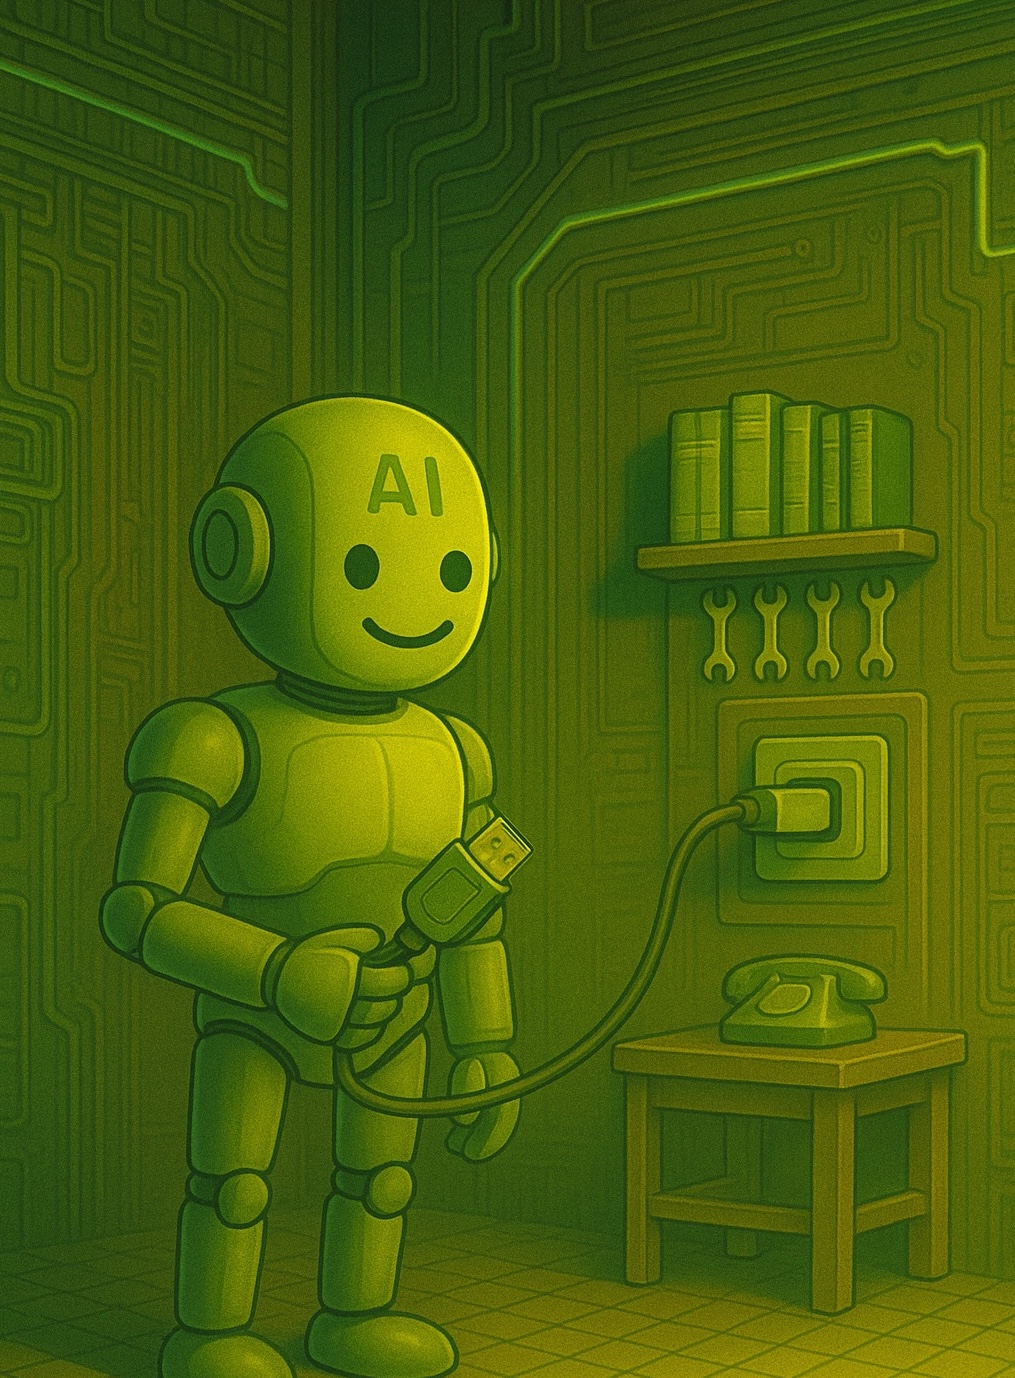
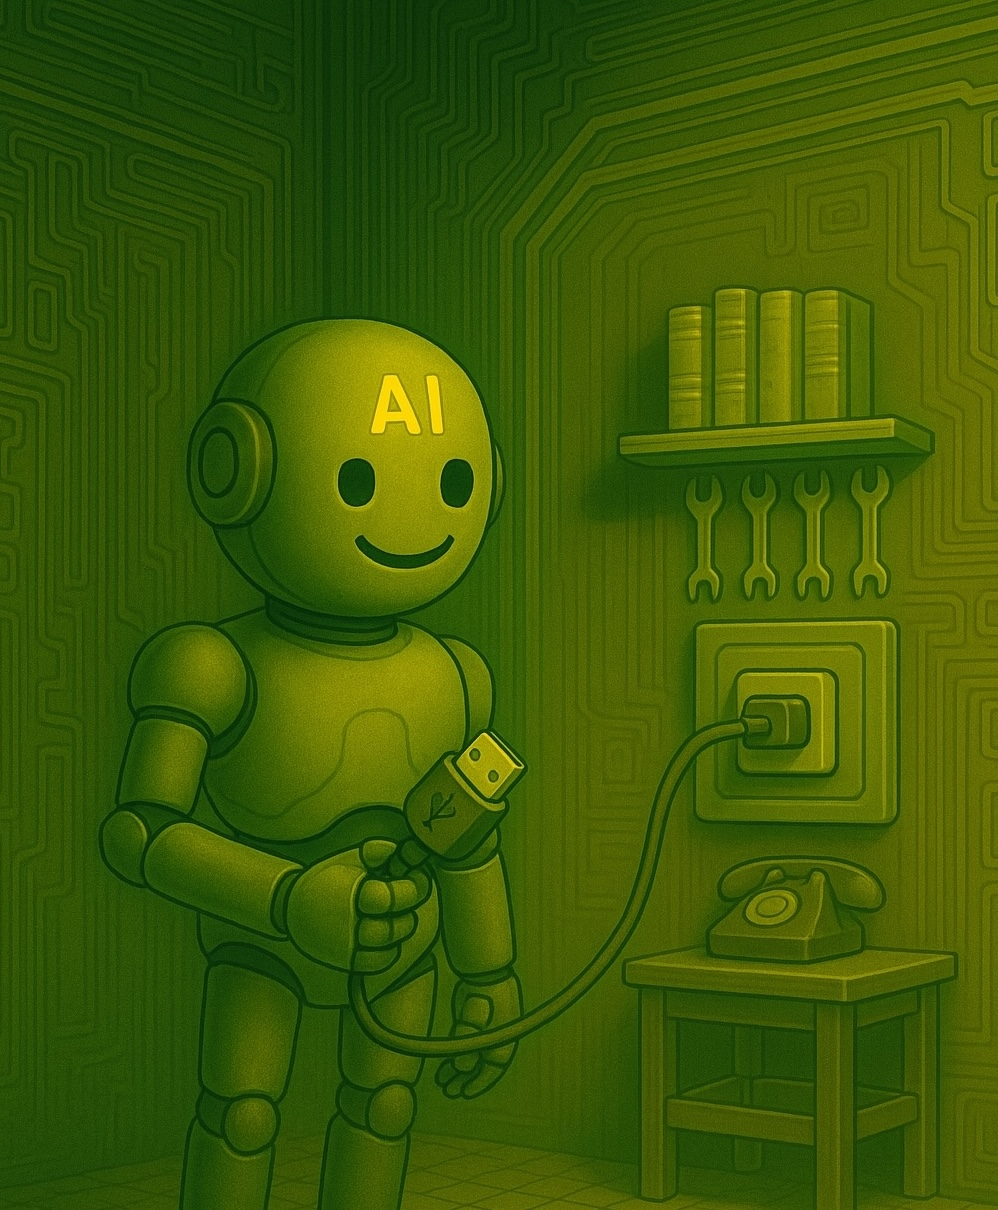
new MCP blog post fixed typos, featured image and summary - including submodules

diff --git a/content/posts/mcp/index.md b/content/posts/mcp/index.md
@@ -1,7 +1,7 @@
 +++
 date = '2025-04-11T08:37:54+02:00'
 draft = false
-title = 'Intro to the Model Context Protocol'
+title = 'Intro to Model Context Protocol'
 categories = ['AI']
 tags = ['Agents', 'MCP', 'Azure', 'Copilot', 'VS Code', 'GitHub' ]
 +++
@@ -20,13 +20,13 @@ In this blog post, I want to explain and demonstrate MCP with a simple but usefu
 
 ### MCP Server
 
-What is an [MCP Server](https://modelcontextprotocol.io/docs/concepts/architecture)? MCP uses a client-server architecture. The MCP Server is where you build your connection to your APIs and resources. This is where the heavy lifting is done as you still have to write the integration. Nevertheless, the MCP Server then exposes your servers as MCP Tools via the standardized Model Context Protocol and makes them available to your AI apps. 
+What is an [MCP Server](https://modelcontextprotocol.io/docs/concepts/architecture)? MCP uses a client-server architecture. The MCP Server is where you build your connection to your APIs and resources. This is where the heavy lifting is done as you still have to write the integration. Nevertheless, the MCP Server then exposes your services as MCP Tools via the standardized Model Context Protocol and makes them available to your AI apps. 
 
 The MCP Servers can run local (stdio) or remote via HTTP+SSE(Server-Sent Events) transport layer. However, the remote implementation is still in early stages and is evolving fast. The recent specs already replacing HTTP+SSE with Streamable HTTP. I found a great blog post from Christian Posta explaining the change in more detail.
 
 - [Understanding MCP Recent Change Around HTTP+SSE](https://blog.christianposta.com/ai/understanding-mcp-recent-change-around-http-sse)
 
-There are already blog posts and repos available to deploy a remote MCP Server on various Azure Services:
+If you want to host a remote MCP Server on Azure, there are already multiple blog posts and repos available that you can follow:
 
 - [Host remote MCP Servers on Azure App Service](https://techcommunity.microsoft.com/blog/appsonazureblog/host-remote-mcp-servers-in-azure-app-service/4405082)
 - [Host remote MCP Servers on Azure Container Apps](https://techcommunity.microsoft.com/blog/appsonazureblog/host-remote-mcp-servers-in-azure-container-apps/4403550)
@@ -148,7 +148,7 @@ After approving the tool execution by clicking "Continue" it will run the first 
 
 ![RG-list](/rglist.png)
 
-Awesome, we can now use the available tools to execute azd command directly or query logs and more. Combine this with the [Azure extension](https://marketplace.visualstudio.com/items?itemName=ms-azuretools.vscode-azure-github-copilot) for GitHub Copilot and you have a powerful Azure toolset directly in VS Code GitHub Copilot.
+Awesome, we can now use the MCP Tools provided by our Azure MCP Server to execute [azd](https://learn.microsoft.com/en-us/azure/developer/azure-developer-cli/) commands directly or query logs and more. Combine this with the [Azure extension](https://marketplace.visualstudio.com/items?itemName=ms-azuretools.vscode-azure-github-copilot) for GitHub Copilot and you have a powerful Azure toolset directly in VS Code GitHub Copilot.
 
 ## Summary
 
@@ -160,6 +160,8 @@ Here is a list of popular MCP Server registries:
 - [https://glama.ai/mcp/servers](https://glama.ai/mcp/servers) 
 - [https://smithery.ai/](https://smithery.ai/)
 - [https://www.pulsemcp.com/servers](https://www.pulsemcp.com/servers)
+
+If you wonder, is it is possible to use [Azure AI Agent Service](https://beyondelastic.github.io/posts/agent/) with MCP, it is. There is a great blog post available [here](https://devblogs.microsoft.com/foundry/integrating-azure-ai-agents-mcp/). It describes how to use Azure AI Agents as MCP Tools. Which might sounds strange in the first moment as it works the other way around. In this scenario, the MCP Server uses the agent or multiple agents as tools instead of the agent querying the MCP Server for exposed tools. Which makes a lot of sense if you think about the many ootb tools and Azure integrations that are available with the Azure AI Agent Service.
 
 Besides MCP, there is another standard that was just recently announced by Google. The [A2A protocol](https://learnopencv.com/googles-a2a-protocol-heres-what-you-need-to-know/), which caters more to the agent to agent collaboration across platforms. It is definitely worth to follow both projects and see how they evolve. There is no doubt the future of agentic apps looks bright. 
 
@@ -186,5 +188,8 @@ Besides MCP, there is another standard that was just recently announced by Googl
 - [GitHub account](https://github.com/)
 - [VS Code GitHub Copilot](https://marketplace.visualstudio.com/items?itemName=GitHub.copilot)  
 - [GitHub Copilot Agent Mode](https://code.visualstudio.com/docs/copilot/chat/chat-agent-mode)
+- [Azure Developer CLI](https://learn.microsoft.com/en-us/azure/developer/azure-developer-cli/)
 - [GitHub Copilot Azure extension](https://marketplace.visualstudio.com/items?itemName=ms-azuretools.vscode-azure-github-copilot)
+- [Azure AI Agent Service](https://beyondelastic.github.io/posts/agent/)
+- [MCP with Azure AI Agent Service](https://devblogs.microsoft.com/foundry/integrating-azure-ai-agents-mcp/)
 - [A2A protocol](https://learnopencv.com/googles-a2a-protocol-heres-what-you-need-to-know/)
